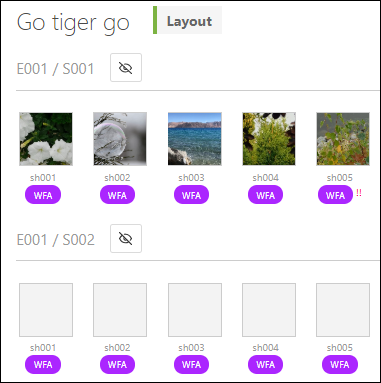
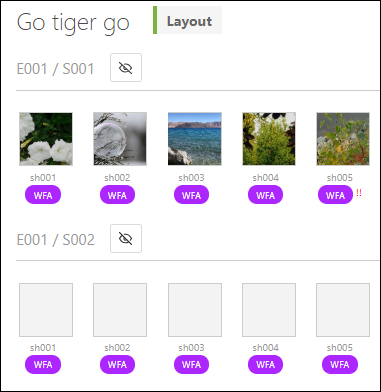
faq global img fix

diff --git a/faq/README.md b/faq/README.md
@@ -89,7 +89,7 @@ One way to have a global view is by clicking on the **task** name.
 It will open a new page, where you can see the state of all the **status** 
 on this **specific task** per type or per shot.
 
-![Global asset task](../img/faq/global_view_task.png) ![Global shot task](../img/faq/global_view_task02.png)
+![Global asset task](../img/faq/global_view_task.png) ![Global shot task](../img/faq/global_view_task01.png)
 
 
 ### [Sequence global page](#sequence-global-page)	
